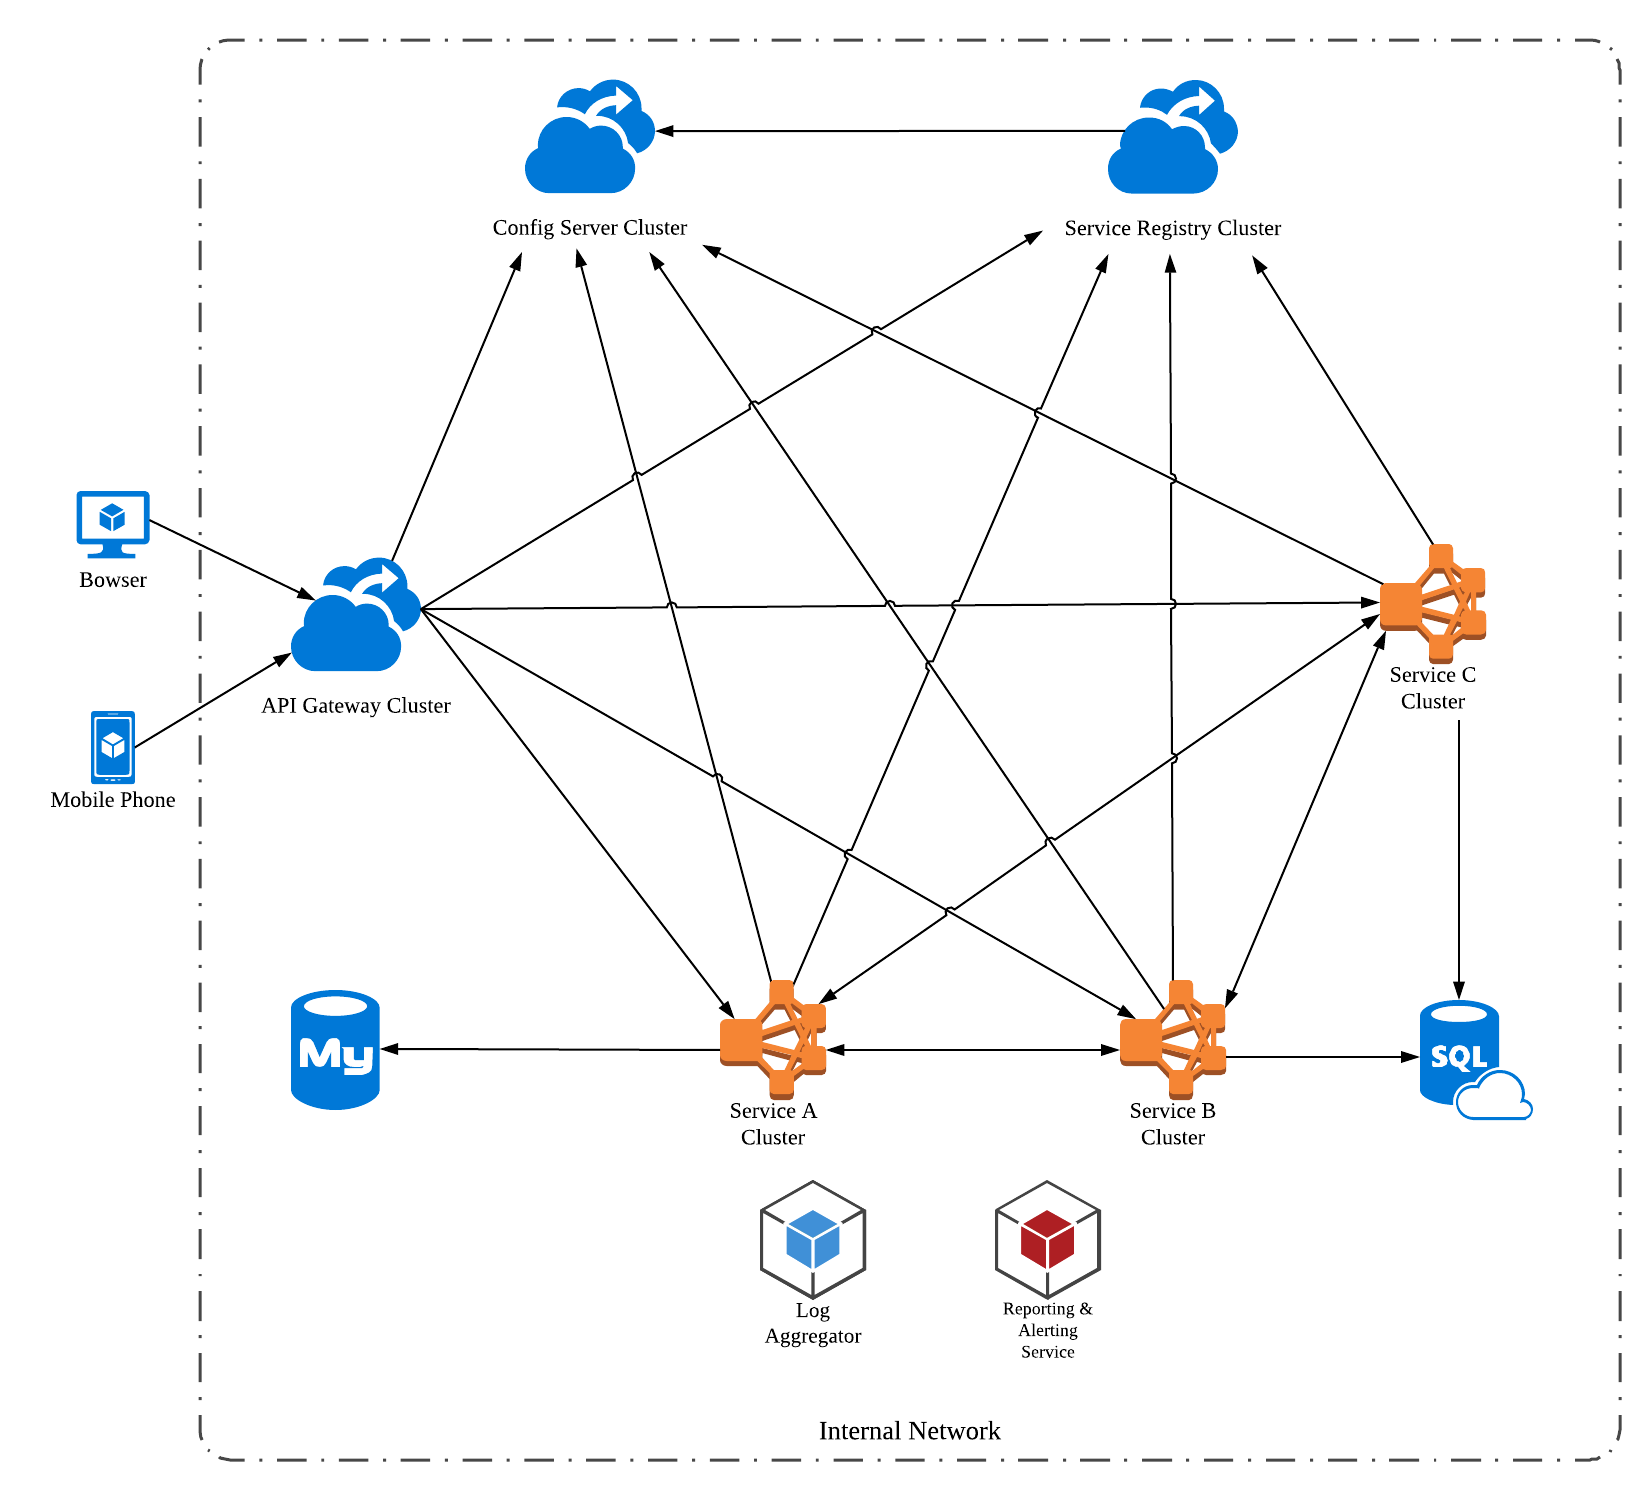
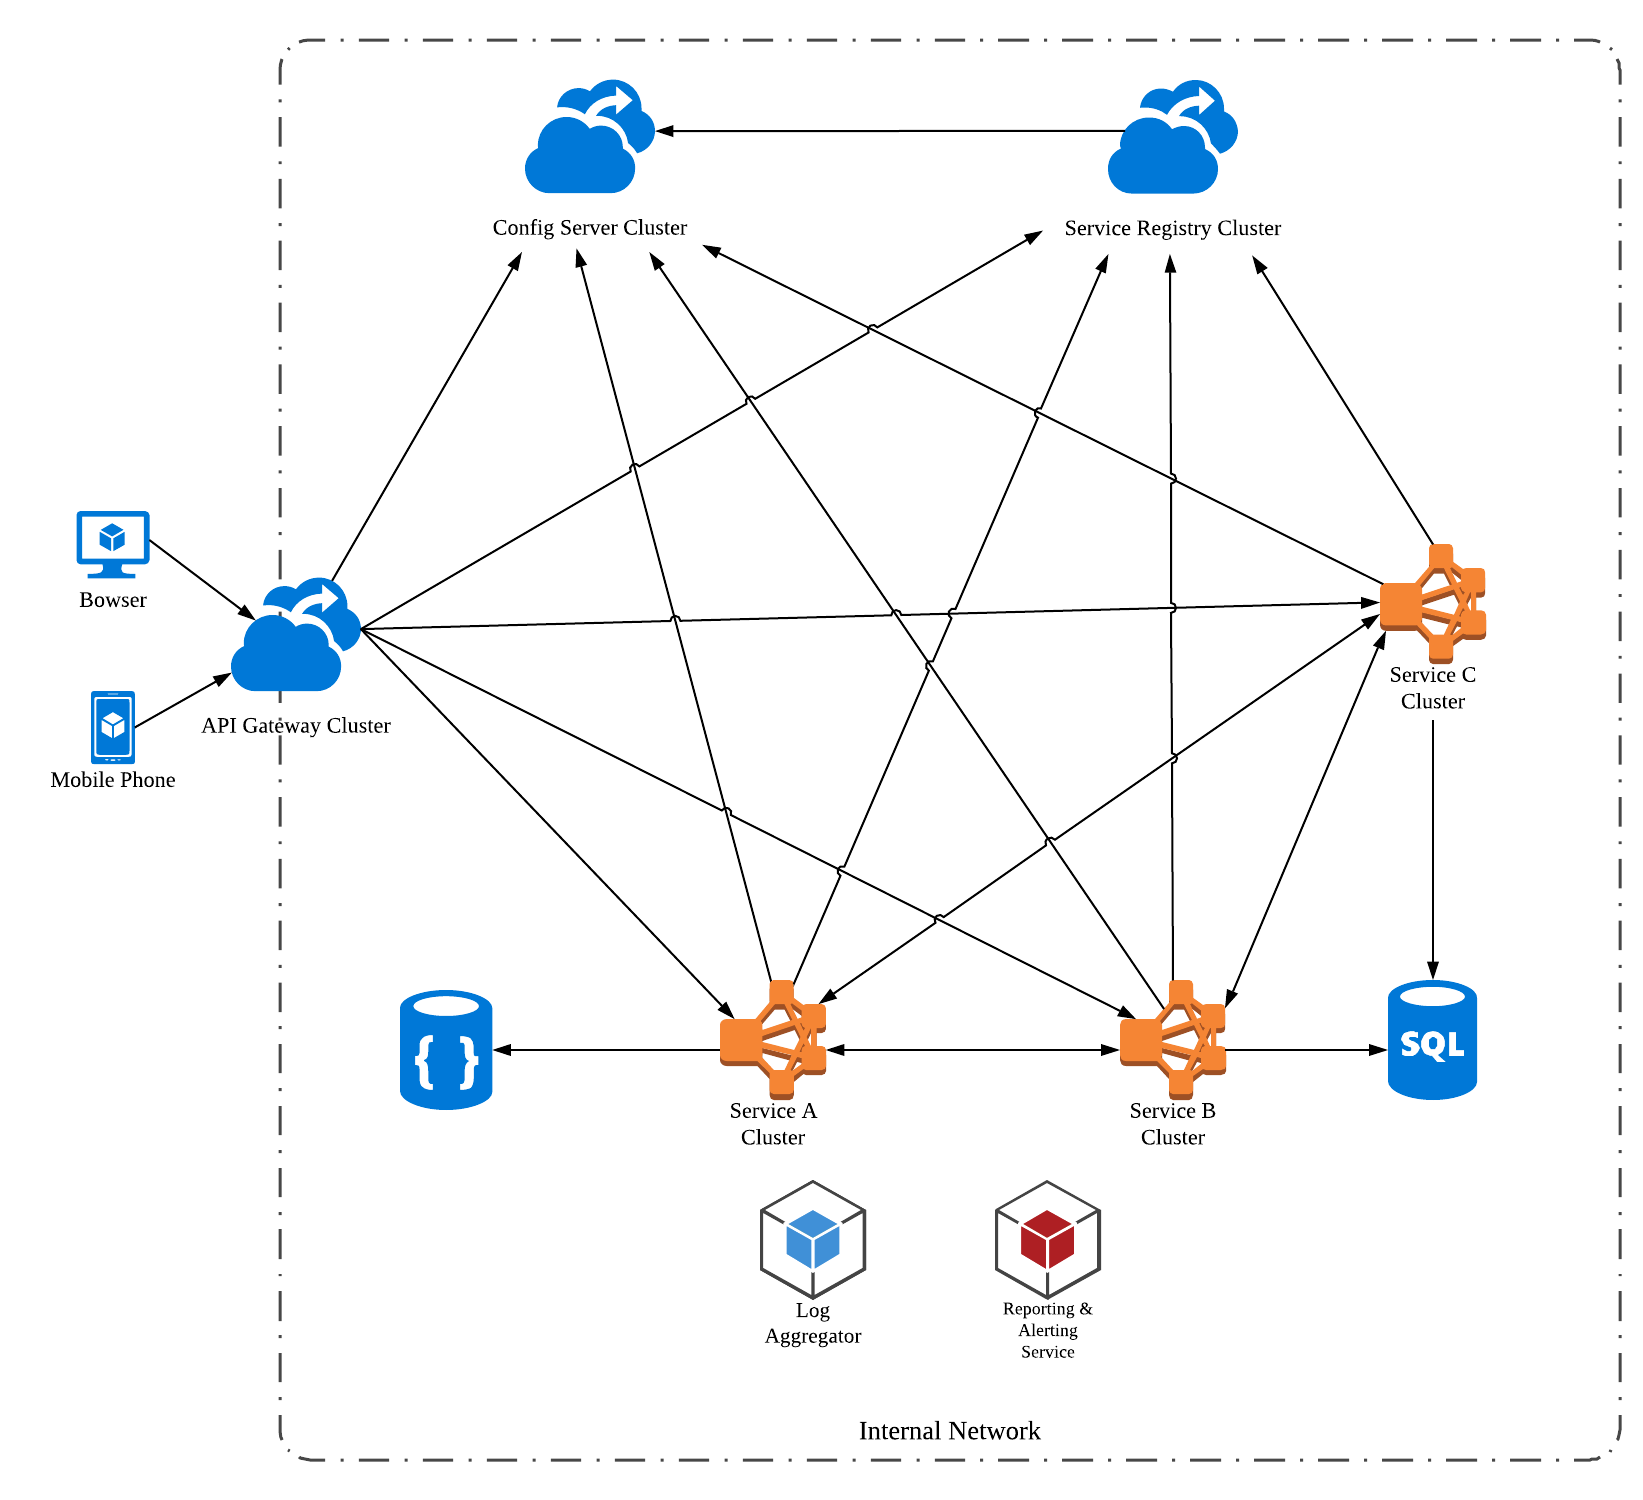
Update README and architecture diagram

diff --git a/README.md b/README.md
@@ -1,5 +1,5 @@
 ## **1. Introduction**
-This open source project intends to create an online travel platform where travel agencies sell their products and services, and customers compare prices of similar travel products and services from different agencies in one stop. This platform is quite like [Wing On Travel](https://www.wingontravel.com/) in Hong Kong, but is not exclusive to one or only a few companies, but open to any travel agencies to do their B2C business, which is like [Taobao](https://www.taobao.com/) in China. I initiated this project with a hope that people in Hong Kong who like travelling will have one online portal where they can choose best travel products and services, seek travel advice, make friends with peers who love travelling too, etc. This project was originally hosted at Amazon Web Service, and just moved from there to GitHub for open source.
+This open source project intends to create an online travel platform where travel agencies sell their products and services, and customers compare prices of similar products and services from different agencies in one stop. This platform is similar to [Wing On Travel](https://www.wingontravel.com/) in Hong Kong, and is not exclusive to one or only a few companies, but open to any travel agencies to do their B2C business like [Taobao](https://www.taobao.com/) in China. I initiated this project with a hope that people in Hong Kong who like travelling will have one online portal where they can choose best travel products and services, seek travel advice, make friends with peers who love travelling too, etc. This project was originally hosted at Amazon Web Service, and just moved from there to GitHub for open source.
 
 ## **2. Project Modules**
 This project has following three modules:
@@ -8,10 +8,10 @@ This project has following three modules:
  A set of server applications, which are micro-service based, to provide back end services to web and mobile modules. Server module is already under development.
  
  **2.2. [Web Module](https://github.com/shiyouping/rtalpha/tree/master/web)** <br>
- A web application to provide an online portal to this travel platform. The development of this module hasn't started due to  resource shortage.
+ A web application to provide an online portal to this travel platform. The development of this module hasn't started due to resource shortage.
  
  **2.3. [Mobile Module](https://github.com/shiyouping/rtalpha/tree/master/mobile)** <br>
  Android and iOS apps for mobile users. The development of this module hasn't started due to resource shortage.
 
 ## **3. Contributors**
-Currently, I am the only contributor of this project, and focusing on the server side development. As a software engineer, I have my own full-time job and can only work on this project when I have spare time, e.g. weekends or after work. Therefore, the development is very slow. I need more people to join me, especially web and mobile app developers. Any people who are interested are welcome to contribute. You can reach me at ricky.shiyouping@gmail.com. Let's make Hong Kong great!
+Currently, I am the only contributor of this project, and have been focusing on the server side development since the beginning. As a software engineer, I have my own full-time job and can only work on this project on the weekends or after work. Therefore, the development is slow. I need more people to join me, especially web and mobile app developers. Any people who are interested are welcome to contribute. You can reach me at ricky.shiyouping@gmail.com.

diff --git a/server/README.md b/server/README.md
@@ -1,6 +1,5 @@
-
 ## **1. Overview**
-Originally server module is based on service-oriented architecture, and I have been refactoring server applications to micro-service style since this March. Currently server module has covered the following micro-service components:
+Originally server applications were based on service-oriented architecture, and I have been refactoring them to micro-service style since March 2018. Currently server module has covered the following micro-service components:
 
 - API gateway
 - Service discovery
@@ -18,7 +17,7 @@ Other components will be integrated gradually such as:
 - Exception tracking
 
 
-For the time being, server module has the following services:
+So far there are six server services:
 
 - Config Server
 - Service Registry
@@ -27,10 +26,10 @@ For the time being, server module has the following services:
 - User Management System
 - Email Management System
 
-New services such as Payment Management System, Order Management System, etc, will be added in the near future. 
+New services, e.g. Payment Management System, Order Management System, etc, will be added in the future. 
 
 ## **2. Design**
-Please see documents of architecture and UML in [doc](https://github.com/shiyouping/rtalpha/tree/master/doc/architecture) directory to understand how server applications work and interact with each other.
+Please see documents of architecture in [doc](https://github.com/shiyouping/rtalpha/tree/master/doc/architecture) directory to understand how server applications work and interact with web and mobile applications.
 
 ## **3. In Progress**
 - Integrate Spring Zuul to the server of API Gateway.
